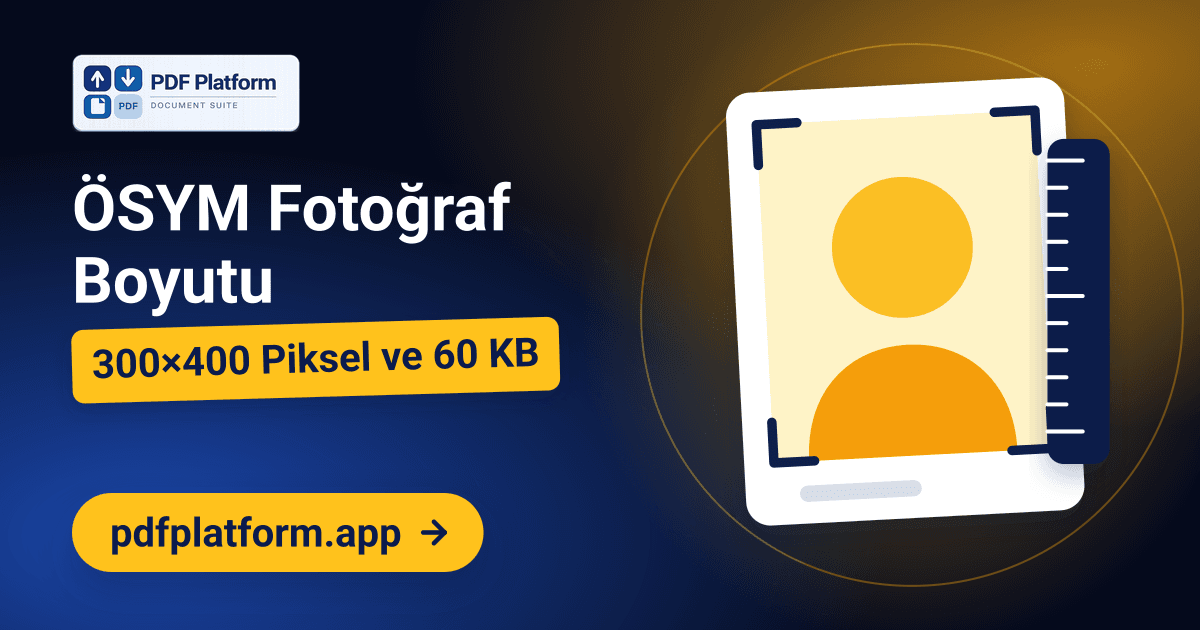
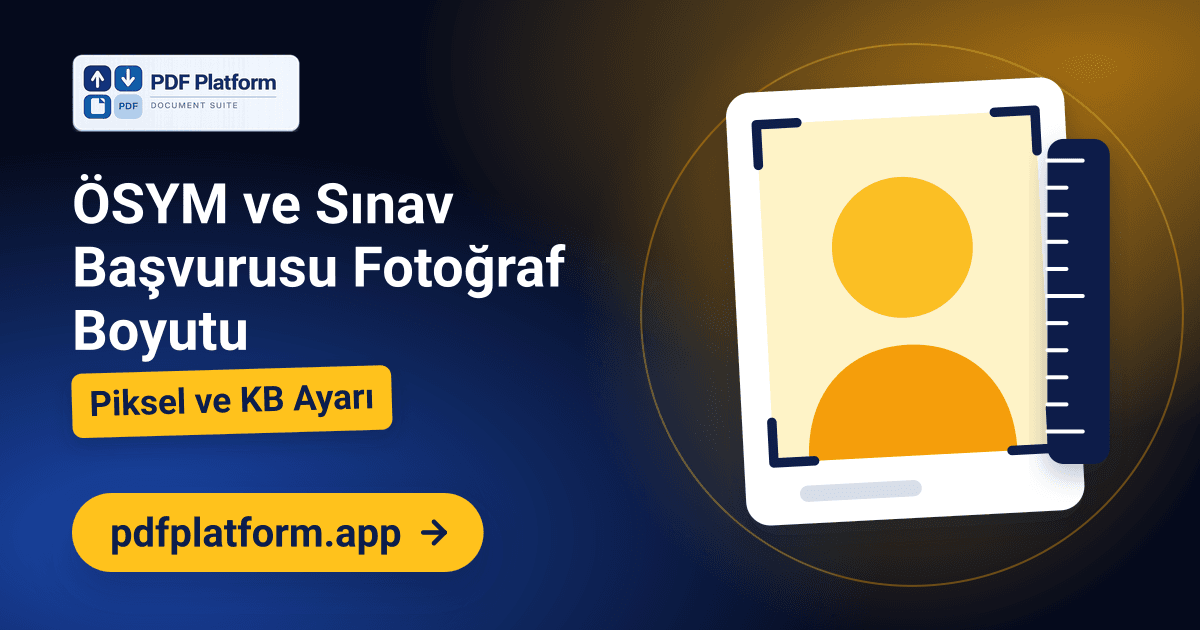
fix(seo): OSYM fotograf yazisinda dogrulanmamis kesin rakam iddiasi yumusatildi (kilavuz piksel/KB yayimlamiyor)

Changed region(s): [[0.0617, 0.2714, 0.4933, 0.6937]]

diff --git a/web/frontend/public/blog/osym-sinav-basvurusu-fotograf-boyutu/index.html b/web/frontend/public/blog/osym-sinav-basvurusu-fotograf-boyutu/index.html
@@ -27,7 +27,7 @@
     <meta name="apple-mobile-web-app-status-bar-style" content="black-translucent" />
     <meta name="apple-mobile-web-app-title" content="PDF Platform" />
     <meta name="msapplication-TileColor" content="#0f172a" />
-    <title>ÖSYM Fotoğraf Boyutu: 300×400 Piksel ve 60 KB</title>
+    <title>ÖSYM ve Sınav Başvurusu Fotoğraf Boyutu: Piksel ve KB Ayarı</title>
     <meta name="description" content="Sınav başvurusunda fotoğraf yüklenmiyor mu? İstenen piksel ölçüsünü ve dosya boyutunu tutturmanın adım adım yolu — kurulum gerekmeden." />
     <meta name="robots" content="index, follow, max-image-preview:large" />
     <meta name="googlebot" content="index, follow, max-image-preview:large" />
@@ -40,22 +40,22 @@
     <link rel="alternate" hreflang="x-default" href="https://www.pdfplatform.app/blog/osym-sinav-basvurusu-fotograf-boyutu" />
     <meta property="og:type" content="website" />
     <meta property="og:site_name" content="PDF Platform" />
-    <meta property="og:title" content="ÖSYM Fotoğraf Boyutu: 300×400 Piksel ve 60 KB" />
+    <meta property="og:title" content="ÖSYM ve Sınav Başvurusu Fotoğraf Boyutu: Piksel ve KB Ayarı" />
     <meta property="og:description" content="Sınav başvurusunda fotoğraf yüklenmiyor mu? İstenen piksel ölçüsünü ve dosya boyutunu tutturmanın adım adım yolu — kurulum gerekmeden." />
     <meta property="og:image" content="https://www.pdfplatform.app/covers/osym-sinav-basvurusu-fotograf-boyutu.png" />
     <meta property="og:image:width" content="1200" />
     <meta property="og:image:height" content="630" />
-    <meta property="og:image:alt" content="ÖSYM Fotoğraf Boyutu: 300×400 Piksel ve 60 KB" />
+    <meta property="og:image:alt" content="ÖSYM ve Sınav Başvurusu Fotoğraf Boyutu: Piksel ve KB Ayarı" />
     <meta property="og:url" content="https://www.pdfplatform.app/blog/osym-sinav-basvurusu-fotograf-boyutu" />
     <meta property="og:locale" content="tr_TR" />
     <meta property="og:locale:alternate" content="en_US" />
     <meta name="twitter:card" content="summary_large_image" />
     <meta name="twitter:site" content="@nbglobalstudio" />
     <meta name="twitter:creator" content="@nbglobalstudio" />
-    <meta name="twitter:title" content="ÖSYM Fotoğraf Boyutu: 300×400 Piksel ve 60 KB" />
+    <meta name="twitter:title" content="ÖSYM ve Sınav Başvurusu Fotoğraf Boyutu: Piksel ve KB Ayarı" />
     <meta name="twitter:description" content="Sınav başvurusunda fotoğraf yüklenmiyor mu? İstenen piksel ölçüsünü ve dosya boyutunu tutturmanın adım adım yolu — kurulum gerekmeden." />
     <meta name="twitter:image" content="https://www.pdfplatform.app/covers/osym-sinav-basvurusu-fotograf-boyutu.png" />
-    <meta name="twitter:image:alt" content="ÖSYM Fotoğraf Boyutu: 300×400 Piksel ve 60 KB" />
+    <meta name="twitter:image:alt" content="ÖSYM ve Sınav Başvurusu Fotoğraf Boyutu: Piksel ve KB Ayarı" />
     <!-- Yazı tipleri sitenin kendi sunucusundan gelir (üçüncü tarafa IP gitmez). Yalnızca ilk ekranda görünen Inter önceden yüklenir. -->
     <link rel="preload" as="font" type="font/woff2" href="/fonts/inter-latin-wght-normal.woff2" crossorigin />
     <link rel="stylesheet" href="/fonts/fonts.css" />
@@ -69,14 +69,14 @@
       .seo-prerender{position:absolute!important;width:1px;height:1px;padding:0;margin:-1px;overflow:hidden;clip:rect(0 0 0 0);clip-path:inset(50%);white-space:nowrap;border:0}
     </style>
     <script type="application/ld+json">{"@context":"https://schema.org","@type":"WebSite","@id":"https://www.pdfplatform.app/#website","name":"PDF Platform","url":"https://www.pdfplatform.app","inLanguage":"tr-TR","description":"PDF birleştirme, Word'e çevirme, küçültme, JPG'ye çevirme, düzenleme ve toplam 75 araç. Üyeliksiz ve ücretsiz; birleştirme tarayıcınızda çalışır, kurulum yok.","publisher":{"@id":"https://www.pdfplatform.app/#organization"}}</script>
-    <script type="application/ld+json">{"@context":"https://schema.org","@type":"Organization","@id":"https://www.pdfplatform.app/#organization","name":"PDF Platform","url":"https://www.pdfplatform.app","logo":{"@type":"ImageObject","url":"https://www.pdfplatform.app/logo.png","width":192,"height":192},"description":"Profesyonel PDF birleştirme, dönüştürme, sıkıştırma ve düzenleme platformu — iş süreçleri için tasarlandı.","contactPoint":{"@type":"ContactPoint","contactType":"customer support","availableLanguage":["Turkish","English"]},"sameAs":[]}</script>
-    <script type="application/ld+json">{"@context":"https://schema.org","@type":"BreadcrumbList","itemListElement":[{"@type":"ListItem","position":1,"name":"PDF Platform","item":"https://www.pdfplatform.app"},{"@type":"ListItem","position":2,"name":"Blog","item":"https://www.pdfplatform.app/blog"},{"@type":"ListItem","position":3,"name":"ÖSYM Fotoğraf Boyutu: 300×400 Piksel ve 60 KB","item":"https://www.pdfplatform.app/blog/osym-sinav-basvurusu-fotograf-boyutu"}]}</script>
-    <script type="application/ld+json">{"@context":"https://schema.org","@type":"BlogPosting","headline":"ÖSYM Fotoğraf Boyutu: 300×400 Piksel ve 60 KB","description":"Sınav başvurusunda fotoğraf yüklenmiyor mu? İstenen piksel ölçüsünü ve dosya boyutunu tutturmanın adım adım yolu — kurulum gerekmeden.","datePublished":"2026-09-22","dateModified":"2026-09-22","inLanguage":"tr","mainEntityOfPage":"https://www.pdfplatform.app/blog/osym-sinav-basvurusu-fotograf-boyutu","author":{"@type":"Organization","name":"PDF Platform","@id":"https://www.pdfplatform.app/#organization"},"publisher":{"@id":"https://www.pdfplatform.app/#organization"},"image":"https://www.pdfplatform.app/covers/osym-sinav-basvurusu-fotograf-boyutu.png"}</script>
-    <script type="application/ld+json">{"@context":"https://schema.org","@type":"HowTo","name":"ÖSYM Fotoğraf Boyutu: 300×400 Piksel ve 60 KB","description":"Sınav başvurusunda fotoğraf yüklenmiyor mu? İstenen piksel ölçüsünü ve dosya boyutunu tutturmanın adım adım yolu — kurulum gerekmeden.","inLanguage":"tr","step":[{"@type":"HowToStep","position":1,"name":"Fotoğrafı doğru ölçüye getirin","text":"Görsel Boyutlandır aracında hazır ölçülerden sınav başvurusu seçeneğini seçin; genişlik ve yükseklik 300 × 400 olarak gelir. İsterseniz elle de girebilirsiniz."},{"@type":"HowToStep","position":2,"name":"Dosya boyutunu kontrol edin","text":"İnen dosyanın boyutuna bakın. 60 KB'ın altındaysa işiniz bitti."},{"@type":"HowToStep","position":3,"name":"Gerekirse sıkıştırın","text":"Hâlâ büyükse Görsel Sıkıştır aracına verin ve kaliteyi kademeli düşürün. Vesikalık boyutundaki bir fotoğrafta %70 kalite genellikle hem 60 KB'ın altına iner hem de yüz net kalır."},{"@type":"HowToStep","position":4,"name":"Son kontrolü gözle yapın","text":"Fotoğrafı tam boyutta açıp yüzün net göründüğünden emin olun. Aşırı sıkıştırma yüz hatlarını bozar ve fotoğraf geri çevrilebilir."}]}</script>
-    <script type="application/ld+json">{"@context":"https://schema.org","@type":"FAQPage","mainEntity":[{"@type":"Question","name":"Sınav başvurusunda fotoğraf kaç piksel olmalı?","acceptedAnswer":{"@type":"Answer","text":"Yaygın olarak 300 × 400 piksel ve en fazla 60 KB, JPG biçiminde istenir. Şartlar değişebildiği için başvuru ekranındaki açıklamayı esas alın."}},{"@type":"Question","name":"Fotoğrafım doğru ölçüde ama dosya boyutu büyük, ne yapmalıyım?","acceptedAnswer":{"@type":"Answer","text":"Piksel ölçüsü ile dosya boyutu farklı şeylerdir. Ölçüyü koruyup fotoğrafı ayrıca sıkıştırın; vesikalık boyutta %70 kalite genellikle hem sınırın altına iner hem yüzü net bırakır."}},{"@type":"Question","name":"Telefon fotoğrafımı doğrudan kullanabilir miyim?","acceptedAnswer":{"@type":"Answer","text":"Önce kırpmanız gerekir. Kamera fotoğrafı 4:3 ya da 16:9 orandadır; vesikalık 3:4 orandadır. Yüz merkezde olacak şekilde kırpıp sonra boyutlandırın."}},{"@type":"Question","name":"Küçük bir fotoğrafı büyütebilir miyim?","acceptedAnswer":{"@type":"Answer","text":"Büyütebilirsiniz ama sonuç bulanık olur; kaybolan ayrıntı geri gelmez. Mümkünse fotoğrafın yüksek çözünürlüklü aslından başlayın."}},{"@type":"Question","name":"Bu araç fotoğrafı biyometrik hâle getirir mi?","acceptedAnswer":{"@type":"Answer","text":"Hayır. Araç yalnızca ölçüyü ayarlar. Beyaz arka plan, yüzün konumu ve nötr ifade gibi şartlar çekimle ilgilidir ve ayrıca sağlanmalıdır."}}]}</script>
+    <script type="application/ld+json">{"@context":"https://schema.org","@type":"Organization","@id":"https://www.pdfplatform.app/#organization","name":"PDF Platform","url":"https://www.pdfplatform.app","logo":{"@type":"ImageObject","url":"https://www.pdfplatform.app/logo.png","width":192,"height":192},"description":"Profesyonel PDF birleştirme, dönüştürme, sıkıştırma ve düzenleme platformu — iş süreçleri için tasarlandı.","contactPoint":{"@type":"ContactPoint","contactType":"customer support","availableLanguage":["Turkish","English"]},"sameAs":["https://www.instagram.com/pdfplatformapp","https://www.facebook.com/pdfplatform","https://x.com/pdfplatformapp","https://www.linkedin.com/company/pdfplatform","https://www.youtube.com/@pdfplatformapp","https://www.tiktok.com/@pdfplatformapp","https://tr.pinterest.com/pdfplatformapp"]}</script>
+    <script type="application/ld+json">{"@context":"https://schema.org","@type":"BreadcrumbList","itemListElement":[{"@type":"ListItem","position":1,"name":"PDF Platform","item":"https://www.pdfplatform.app"},{"@type":"ListItem","position":2,"name":"Blog","item":"https://www.pdfplatform.app/blog"},{"@type":"ListItem","position":3,"name":"ÖSYM ve Sınav Başvurusu Fotoğraf Boyutu: Piksel ve KB Ayarı","item":"https://www.pdfplatform.app/blog/osym-sinav-basvurusu-fotograf-boyutu"}]}</script>
+    <script type="application/ld+json">{"@context":"https://schema.org","@type":"BlogPosting","headline":"ÖSYM ve Sınav Başvurusu Fotoğraf Boyutu: Piksel ve KB Ayarı","description":"Sınav başvurusunda fotoğraf yüklenmiyor mu? İstenen piksel ölçüsünü ve dosya boyutunu tutturmanın adım adım yolu — kurulum gerekmeden.","datePublished":"2026-09-22","dateModified":"2026-09-22","inLanguage":"tr","mainEntityOfPage":"https://www.pdfplatform.app/blog/osym-sinav-basvurusu-fotograf-boyutu","author":{"@type":"Organization","name":"PDF Platform","@id":"https://www.pdfplatform.app/#organization"},"publisher":{"@id":"https://www.pdfplatform.app/#organization"},"image":"https://www.pdfplatform.app/covers/osym-sinav-basvurusu-fotograf-boyutu.png"}</script>
+    <script type="application/ld+json">{"@context":"https://schema.org","@type":"HowTo","name":"ÖSYM ve Sınav Başvurusu Fotoğraf Boyutu: Piksel ve KB Ayarı","description":"Sınav başvurusunda fotoğraf yüklenmiyor mu? İstenen piksel ölçüsünü ve dosya boyutunu tutturmanın adım adım yolu — kurulum gerekmeden.","inLanguage":"tr","step":[{"@type":"HowToStep","position":1,"name":"Fotoğrafı doğru ölçüye getirin","text":"Görsel Boyutlandır aracında hazır ölçülerden sınav başvurusu seçeneğini seçin; genişlik ve yükseklik 300 × 400 olarak gelir. İsterseniz elle de girebilirsiniz."},{"@type":"HowToStep","position":2,"name":"Dosya boyutunu kontrol edin","text":"İnen dosyanın boyutuna bakın. 60 KB'ın altındaysa işiniz bitti."},{"@type":"HowToStep","position":3,"name":"Gerekirse sıkıştırın","text":"Hâlâ büyükse Görsel Sıkıştır aracına verin ve kaliteyi kademeli düşürün. Vesikalık boyutundaki bir fotoğrafta %70 kalite genellikle hem 60 KB'ın altına iner hem de yüz net kalır."},{"@type":"HowToStep","position":4,"name":"Son kontrolü gözle yapın","text":"Fotoğrafı tam boyutta açıp yüzün net göründüğünden emin olun. Aşırı sıkıştırma yüz hatlarını bozar ve fotoğraf geri çevrilebilir."}]}</script>
+    <script type="application/ld+json">{"@context":"https://schema.org","@type":"FAQPage","mainEntity":[{"@type":"Question","name":"Sınav başvurusunda fotoğraf kaç piksel olmalı?","acceptedAnswer":{"@type":"Answer","text":"Sınav başvurularında yaygın olarak 300 × 400 piksel ve en fazla 60 KB, JPG biçiminde istenir; ancak bu bir örnektir ve ÖSYM kılavuzu bu değerleri yayımlamaz. Şartlar değiştiği için başvuru ekranındaki açıklamayı esas alın."}},{"@type":"Question","name":"Fotoğrafım doğru ölçüde ama dosya boyutu büyük, ne yapmalıyım?","acceptedAnswer":{"@type":"Answer","text":"Piksel ölçüsü ile dosya boyutu farklı şeylerdir. Ölçüyü koruyup fotoğrafı ayrıca sıkıştırın; vesikalık boyutta %70 kalite genellikle hem sınırın altına iner hem yüzü net bırakır."}},{"@type":"Question","name":"Telefon fotoğrafımı doğrudan kullanabilir miyim?","acceptedAnswer":{"@type":"Answer","text":"Önce kırpmanız gerekir. Kamera fotoğrafı 4:3 ya da 16:9 orandadır; vesikalık 3:4 orandadır. Yüz merkezde olacak şekilde kırpıp sonra boyutlandırın."}},{"@type":"Question","name":"Küçük bir fotoğrafı büyütebilir miyim?","acceptedAnswer":{"@type":"Answer","text":"Büyütebilirsiniz ama sonuç bulanık olur; kaybolan ayrıntı geri gelmez. Mümkünse fotoğrafın yüksek çözünürlüklü aslından başlayın."}},{"@type":"Question","name":"Bu araç fotoğrafı biyometrik hâle getirir mi?","acceptedAnswer":{"@type":"Answer","text":"Hayır. Araç yalnızca ölçüyü ayarlar. Beyaz arka plan, yüzün konumu ve nötr ifade gibi şartlar çekimle ilgilidir ve ayrıca sağlanmalıdır."}}]}</script>
   </head>
   <body>
-    <div id="root"><main class="seo-prerender"><h1>ÖSYM Fotoğraf Boyutu: 300×400 Piksel ve 60 KB</h1><p class="seo-intro">Başvuru ekranı fotoğrafı kabul etmiyor ve sebebini söylemiyor. Sorun neredeyse her zaman aynı iki şeyden biri: piksel ölçüsü ya da dosya boyutu tutmuyor.</p><figure class="seo-cover"><img src="/covers/osym-sinav-basvurusu-fotograf-boyutu.png" width="1200" height="630" loading="lazy" decoding="async" alt="ÖSYM Fotoğraf Boyutu: 300×400 Piksel ve 60 KB" /></figure><article class="seo-article"><p class="seo-lead">Sınav başvurusunun son günü, formu doldurdunuz ve sıra fotoğrafa geldi. Sistem fotoğrafı kabul etmiyor. Hata mesajı da genelde açıklayıcı değil. Sorun neredeyse her zaman iki şeyden birindedir: fotoğrafın piksel ölçüsü ya da dosya boyutu isteneni tutmuyordur.</p><h2>İstenen ölçüler</h2><p>Sınav başvurularında fotoğraf için yaygın olarak şu şartlar aranır:</p><ul><li>Piksel ölçüsü: 300 × 400 (genişlik × yükseklik).</li><li>Dosya boyutu: en fazla 60 KB.</li><li>Biçim: JPG (JPEG).</li><li>İçerik: son altı ay içinde çekilmiş, beyaz arka planlı, yüzü net gösteren bir fotoğraf.</li></ul><p>Bu şartlar kurumdan kuruma ve yıldan yıla değişebilir. Başvuru ekranındaki açıklama her zaman esastır; aşağıdaki yöntem hangi ölçü istenirse istensin aynı şekilde çalışır.</p><h2>Piksel ölçüsü ile dosya boyutu farklı şeylerdir</h2><p>Bu ayrım kafa karışıklığının asıl kaynağıdır. Piksel ölçüsü fotoğrafın eni ve boyudur — 300 × 400 gibi. Dosya boyutu ise fotoğrafın diskte kapladığı yerdir — 60 KB gibi.</p><p>Bir fotoğraf tam olarak 300 × 400 piksel olabilir ama yine de 400 KB tutabilir. Tersi de mümkündür. Bu yüzden iki şartı ayrı ayrı sağlamanız gerekir: önce ölçüyü ayarlayın, boyut hâlâ yüksekse ayrıca sıkıştırın.</p><h2>Adım adım çözüm</h2><ol><li><strong>Fotoğrafı doğru ölçüye getirin:</strong> Görsel Boyutlandır aracında hazır ölçülerden sınav başvurusu seçeneğini seçin; genişlik ve yükseklik 300 × 400 olarak gelir. İsterseniz elle de girebilirsiniz.</li><li><strong>Dosya boyutunu kontrol edin:</strong> İnen dosyanın boyutuna bakın. 60 KB&#39;ın altındaysa işiniz bitti.</li><li><strong>Gerekirse sıkıştırın:</strong> Hâlâ büyükse Görsel Sıkıştır aracına verin ve kaliteyi kademeli düşürün. Vesikalık boyutundaki bir fotoğrafta %70 kalite genellikle hem 60 KB&#39;ın altına iner hem de yüz net kalır.</li><li><strong>Son kontrolü gözle yapın:</strong> Fotoğrafı tam boyutta açıp yüzün net göründüğünden emin olun. Aşırı sıkıştırma yüz hatlarını bozar ve fotoğraf geri çevrilebilir.</li></ol><p><a href="/tools/gorsel-boyutlandir"><strong>Görsel Boyutlandır</strong> — Fotoğrafı sınav ve resmî başvuruların istediği piksel ölçüsüne getirin — hazır ölçülerle, cihazınızda.</a></p><h2>Sık yapılan hatalar</h2><ul><li>Telefonla çekilmiş normal bir fotoğrafı kırpmadan yüklemeye çalışmak. Kamera fotoğrafı 4:3 ya da 16:9 orandadır; vesikalık oranı 3:4&#39;tür. Önce vesikalık oranında kırpmanız gerekir.</li><li>Ekran görüntüsü kullanmak. Ekran görüntüsü PNG olur ve genelde hem yanlış ölçüde hem gereğinden büyüktür.</li><li>Küçük bir fotoğrafı büyütmek. 150 × 200 bir fotoğrafı 300 × 400&#39;e çıkarmak bulanık bir sonuç verir; kaybolan ayrıntı geri gelmez.</li><li>Arka planı beyaz sanmak. Duvar açık gri ya da kremse sistem ya da görevli bunu reddedebilir.</li></ul><p>Kırpmayı boyutlandırmadan ÖNCE yapın. Önce fotoğrafı 3:4 oranında, yüz merkezde olacak şekilde kırpın; sonra 300 × 400&#39;e getirin. Ters sırada yaparsanız yüz orantısız biçimde ezilir.</p><h2>Diğer başvurular için yaygın ölçüler</h2><p>Aynı yöntem tüm resmî fotoğraf ölçüleri için geçerlidir. Türkiye&#39;de kimlik, pasaport ve ehliyet başvurularında yaygın ölçü 50 × 60 mm; Schengen ve pek çok vize başvurusunda 35 × 45 mm istenir. Milimetre cinsinden verilen ölçüler 300 DPI kabul edilerek piksele çevrilir.</p><p>Şunu tekrar etmekte fayda var: bir aracın fotoğrafı doğru ölçüye getirmesi, fotoğrafın biyometrik şartları karşıladığı anlamına gelmez. Arka plan, yüzün konumu ve ifade gibi şartlar fotoğrafın çekimiyle ilgilidir.</p></article><nav aria-label="İlgili PDF araçları" class="seo-related-tools"><h2>Bu İşi Yapan PDF Araçları</h2><ul><li><a href="/tools/gorsel-boyutlandir">Görsel Boyutlandırma</a></li><li><a href="/tools/gorsel-sikistir">Görsel Sıkıştırma</a></li></ul></nav><nav aria-label="İlgili rehberler" class="seo-related-guides"><h2>İlgili Rehberler</h2><ul><li><a href="/blog/gorsel-boyutlandirma-sosyal-medya">Görsel Boyutlandırma: Sosyal Medya Piksel Ölçüleri 2026</a></li><li><a href="/blog/biyometrik-fotograf-olculeri-ve-kurallari">Biyometrik Fotoğraf Ölçüleri ve Kuralları (2026)</a></li><li><a href="/blog/vize-basvurusu-evrak-hazirlama">Vize Başvurusu İçin Evrak Dosyası Hazırlama</a></li></ul></nav><section aria-label="Sık sorulan sorular" class="seo-faq"><h2>Sık Sorulan Sorular</h2><div class="seo-faq-item"><h3>Sınav başvurusunda fotoğraf kaç piksel olmalı?</h3><p>Yaygın olarak 300 × 400 piksel ve en fazla 60 KB, JPG biçiminde istenir. Şartlar değişebildiği için başvuru ekranındaki açıklamayı esas alın.</p></div><div class="seo-faq-item"><h3>Fotoğrafım doğru ölçüde ama dosya boyutu büyük, ne yapmalıyım?</h3><p>Piksel ölçüsü ile dosya boyutu farklı şeylerdir. Ölçüyü koruyup fotoğrafı ayrıca sıkıştırın; vesikalık boyutta %70 kalite genellikle hem sınırın altına iner hem yüzü net bırakır.</p></div><div class="seo-faq-item"><h3>Telefon fotoğrafımı doğrudan kullanabilir miyim?</h3><p>Önce kırpmanız gerekir. Kamera fotoğrafı 4:3 ya da 16:9 orandadır; vesikalık 3:4 orandadır. Yüz merkezde olacak şekilde kırpıp sonra boyutlandırın.</p></div><div class="seo-faq-item"><h3>Küçük bir fotoğrafı büyütebilir miyim?</h3><p>Büyütebilirsiniz ama sonuç bulanık olur; kaybolan ayrıntı geri gelmez. Mümkünse fotoğrafın yüksek çözünürlüklü aslından başlayın.</p></div><div class="seo-faq-item"><h3>Bu araç fotoğrafı biyometrik hâle getirir mi?</h3><p>Hayır. Araç yalnızca ölçüyü ayarlar. Beyaz arka plan, yüzün konumu ve nötr ifade gibi şartlar çekimle ilgilidir ve ayrıca sağlanmalıdır.</p></div></section><nav aria-label="Site bölümleri" class="seo-sitenav"><h2>Site Haritası</h2><ul><li><a href="/">Ana Sayfa — Tüm PDF Araçları</a></li><li><a href="/blog">Blog — PDF Rehberleri</a></li><li><a href="/pricing">Fiyatlandırma ve Planlar</a></li><li><a href="/pdf-api">PDF ve Yapay Zekâ API</a></li><li><a href="/pdf-api/docs">API Dokümantasyonu</a></li><li><a href="/about">Hakkımızda</a></li><li><a href="/terms">Hizmet Şartları</a></li><li><a href="/privacy">Gizlilik Politikası</a></li><li><a href="/kvkk">KVKK Aydınlatma Metni</a></li></ul></nav></main></div>
+    <div id="root"><main class="seo-prerender"><h1>ÖSYM ve Sınav Başvurusu Fotoğraf Boyutu: Piksel ve KB Ayarı</h1><p class="seo-intro">Başvuru ekranı fotoğrafı kabul etmiyor ve sebebini söylemiyor. Sorun neredeyse her zaman aynı iki şeyden biri: piksel ölçüsü ya da dosya boyutu tutmuyor.</p><figure class="seo-cover"><img src="/covers/osym-sinav-basvurusu-fotograf-boyutu.png" width="1200" height="630" loading="lazy" decoding="async" alt="ÖSYM ve Sınav Başvurusu Fotoğraf Boyutu: Piksel ve KB Ayarı" /></figure><article class="seo-article"><p class="seo-lead">Sınav başvurusunun son günü, formu doldurdunuz ve sıra fotoğrafa geldi. Sistem fotoğrafı kabul etmiyor. Hata mesajı da genelde açıklayıcı değil. Sorun neredeyse her zaman iki şeyden birindedir: fotoğrafın piksel ölçüsü ya da dosya boyutu isteneni tutmuyordur.</p><h2>İstenen ölçüler</h2><p>ÖSYM&#39;nin kılavuzu piksel ya da KB değeri yayımlamıyor; başvuru ekranı ne istiyorsa o esastır. Sınav başvurularında yaygın görülen şartlar şöyledir, bunları örnek olarak alın ve kendi ekranınızdakiyle karşılaştırın:</p><ul><li>Piksel ölçüsü: 300 × 400 (genişlik × yükseklik).</li><li>Dosya boyutu: en fazla 60 KB.</li><li>Biçim: JPG (JPEG).</li><li>İçerik: son altı ay içinde çekilmiş, beyaz arka planlı, yüzü net gösteren bir fotoğraf.</li></ul><p>Bu şartlar kurumdan kuruma ve yıldan yıla değişebilir. Başvuru ekranındaki açıklama her zaman esastır; aşağıdaki yöntem hangi ölçü istenirse istensin aynı şekilde çalışır.</p><h2>Piksel ölçüsü ile dosya boyutu farklı şeylerdir</h2><p>Bu ayrım kafa karışıklığının asıl kaynağıdır. Piksel ölçüsü fotoğrafın eni ve boyudur — 300 × 400 gibi. Dosya boyutu ise fotoğrafın diskte kapladığı yerdir — 60 KB gibi.</p><p>Bir fotoğraf tam olarak 300 × 400 piksel olabilir ama yine de 400 KB tutabilir. Tersi de mümkündür. Bu yüzden iki şartı ayrı ayrı sağlamanız gerekir: önce ölçüyü ayarlayın, boyut hâlâ yüksekse ayrıca sıkıştırın.</p><h2>Adım adım çözüm</h2><ol><li><strong>Fotoğrafı doğru ölçüye getirin:</strong> Görsel Boyutlandır aracında hazır ölçülerden sınav başvurusu seçeneğini seçin; genişlik ve yükseklik 300 × 400 olarak gelir. İsterseniz elle de girebilirsiniz.</li><li><strong>Dosya boyutunu kontrol edin:</strong> İnen dosyanın boyutuna bakın. 60 KB&#39;ın altındaysa işiniz bitti.</li><li><strong>Gerekirse sıkıştırın:</strong> Hâlâ büyükse Görsel Sıkıştır aracına verin ve kaliteyi kademeli düşürün. Vesikalık boyutundaki bir fotoğrafta %70 kalite genellikle hem 60 KB&#39;ın altına iner hem de yüz net kalır.</li><li><strong>Son kontrolü gözle yapın:</strong> Fotoğrafı tam boyutta açıp yüzün net göründüğünden emin olun. Aşırı sıkıştırma yüz hatlarını bozar ve fotoğraf geri çevrilebilir.</li></ol><p><a href="/tools/gorsel-boyutlandir"><strong>Görsel Boyutlandır</strong> — Fotoğrafı sınav ve resmî başvuruların istediği piksel ölçüsüne getirin — hazır ölçülerle, cihazınızda.</a></p><h2>Sık yapılan hatalar</h2><ul><li>Telefonla çekilmiş normal bir fotoğrafı kırpmadan yüklemeye çalışmak. Kamera fotoğrafı 4:3 ya da 16:9 orandadır; vesikalık oranı 3:4&#39;tür. Önce vesikalık oranında kırpmanız gerekir.</li><li>Ekran görüntüsü kullanmak. Ekran görüntüsü PNG olur ve genelde hem yanlış ölçüde hem gereğinden büyüktür.</li><li>Küçük bir fotoğrafı büyütmek. 150 × 200 bir fotoğrafı 300 × 400&#39;e çıkarmak bulanık bir sonuç verir; kaybolan ayrıntı geri gelmez.</li><li>Arka planı beyaz sanmak. Duvar açık gri ya da kremse sistem ya da görevli bunu reddedebilir.</li></ul><p>Kırpmayı boyutlandırmadan ÖNCE yapın. Önce fotoğrafı 3:4 oranında, yüz merkezde olacak şekilde kırpın; sonra 300 × 400&#39;e getirin. Ters sırada yaparsanız yüz orantısız biçimde ezilir.</p><h2>Diğer başvurular için yaygın ölçüler</h2><p>Aynı yöntem tüm resmî fotoğraf ölçüleri için geçerlidir. Türkiye&#39;de kimlik, pasaport ve ehliyet başvurularında yaygın ölçü 50 × 60 mm; Schengen ve pek çok vize başvurusunda 35 × 45 mm istenir. Milimetre cinsinden verilen ölçüler 300 DPI kabul edilerek piksele çevrilir.</p><p>Şunu tekrar etmekte fayda var: bir aracın fotoğrafı doğru ölçüye getirmesi, fotoğrafın biyometrik şartları karşıladığı anlamına gelmez. Arka plan, yüzün konumu ve ifade gibi şartlar fotoğrafın çekimiyle ilgilidir.</p></article><nav aria-label="İlgili PDF araçları" class="seo-related-tools"><h2>Bu İşi Yapan PDF Araçları</h2><ul><li><a href="/tools/gorsel-boyutlandir">Görsel Boyutlandırma</a></li><li><a href="/tools/gorsel-sikistir">Görsel Sıkıştırma</a></li></ul></nav><nav aria-label="İlgili rehberler" class="seo-related-guides"><h2>İlgili Rehberler</h2><ul><li><a href="/blog/gorsel-boyutlandirma-sosyal-medya">Görsel Boyutlandırma: Sosyal Medya Piksel Ölçüleri 2026</a></li><li><a href="/blog/biyometrik-fotograf-olculeri-ve-kurallari">Biyometrik Fotoğraf Ölçüleri: 50×60 mm, 35×45 mm (2026)</a></li><li><a href="/blog/vize-basvurusu-evrak-hazirlama">Vize Başvurusu İçin Evrak Dosyası Hazırlama</a></li></ul></nav><section aria-label="Sık sorulan sorular" class="seo-faq"><h2>Sık Sorulan Sorular</h2><div class="seo-faq-item"><h3>Sınav başvurusunda fotoğraf kaç piksel olmalı?</h3><p>Sınav başvurularında yaygın olarak 300 × 400 piksel ve en fazla 60 KB, JPG biçiminde istenir; ancak bu bir örnektir ve ÖSYM kılavuzu bu değerleri yayımlamaz. Şartlar değiştiği için başvuru ekranındaki açıklamayı esas alın.</p></div><div class="seo-faq-item"><h3>Fotoğrafım doğru ölçüde ama dosya boyutu büyük, ne yapmalıyım?</h3><p>Piksel ölçüsü ile dosya boyutu farklı şeylerdir. Ölçüyü koruyup fotoğrafı ayrıca sıkıştırın; vesikalık boyutta %70 kalite genellikle hem sınırın altına iner hem yüzü net bırakır.</p></div><div class="seo-faq-item"><h3>Telefon fotoğrafımı doğrudan kullanabilir miyim?</h3><p>Önce kırpmanız gerekir. Kamera fotoğrafı 4:3 ya da 16:9 orandadır; vesikalık 3:4 orandadır. Yüz merkezde olacak şekilde kırpıp sonra boyutlandırın.</p></div><div class="seo-faq-item"><h3>Küçük bir fotoğrafı büyütebilir miyim?</h3><p>Büyütebilirsiniz ama sonuç bulanık olur; kaybolan ayrıntı geri gelmez. Mümkünse fotoğrafın yüksek çözünürlüklü aslından başlayın.</p></div><div class="seo-faq-item"><h3>Bu araç fotoğrafı biyometrik hâle getirir mi?</h3><p>Hayır. Araç yalnızca ölçüyü ayarlar. Beyaz arka plan, yüzün konumu ve nötr ifade gibi şartlar çekimle ilgilidir ve ayrıca sağlanmalıdır.</p></div></section><nav aria-label="Site bölümleri" class="seo-sitenav"><h2>Site Haritası</h2><ul><li><a href="/">Ana Sayfa — Tüm PDF Araçları</a></li><li><a href="/blog">Blog — PDF Rehberleri</a></li><li><a href="/pricing">Fiyatlandırma ve Planlar</a></li><li><a href="/pdf-api">PDF ve Yapay Zekâ API</a></li><li><a href="/pdf-api/docs">API Dokümantasyonu</a></li><li><a href="/about">Hakkımızda</a></li><li><a href="/terms">Hizmet Şartları</a></li><li><a href="/privacy">Gizlilik Politikası</a></li><li><a href="/kvkk">KVKK Aydınlatma Metni</a></li></ul></nav></main></div>
     <script type="module" src="/src/main.tsx"></script>
   </body>
 </html>

diff --git a/web/frontend/public/en/blog/exam-application-photo-size/index.html b/web/frontend/public/en/blog/exam-application-photo-size/index.html
@@ -69,14 +69,14 @@
       .seo-prerender{position:absolute!important;width:1px;height:1px;padding:0;margin:-1px;overflow:hidden;clip:rect(0 0 0 0);clip-path:inset(50%);white-space:nowrap;border:0}
     </style>
     <script type="application/ld+json">{"@context":"https://schema.org","@type":"WebSite","@id":"https://www.pdfplatform.app/#website","name":"PDF Platform","url":"https://www.pdfplatform.app","inLanguage":"en-US","description":"PDF to Word, merge, compress, PDF to JPG, edit and 75 tools in total. Free, no sign-up; merge runs in your browser and your files never leave your device.","publisher":{"@id":"https://www.pdfplatform.app/#organization"}}</script>
-    <script type="application/ld+json">{"@context":"https://schema.org","@type":"Organization","@id":"https://www.pdfplatform.app/#organization","name":"PDF Platform","url":"https://www.pdfplatform.app","logo":{"@type":"ImageObject","url":"https://www.pdfplatform.app/logo.png","width":192,"height":192},"description":"Professional PDF merge, convert, compress, and edit platform — built for business document workflows.","contactPoint":{"@type":"ContactPoint","contactType":"customer support","availableLanguage":["Turkish","English"]},"sameAs":[]}</script>
+    <script type="application/ld+json">{"@context":"https://schema.org","@type":"Organization","@id":"https://www.pdfplatform.app/#organization","name":"PDF Platform","url":"https://www.pdfplatform.app","logo":{"@type":"ImageObject","url":"https://www.pdfplatform.app/logo.png","width":192,"height":192},"description":"Professional PDF merge, convert, compress, and edit platform — built for business document workflows.","contactPoint":{"@type":"ContactPoint","contactType":"customer support","availableLanguage":["Turkish","English"]},"sameAs":["https://www.instagram.com/pdfplatformapp","https://www.facebook.com/pdfplatform","https://x.com/pdfplatformapp","https://www.linkedin.com/company/pdfplatform","https://www.youtube.com/@pdfplatformapp","https://www.tiktok.com/@pdfplatformapp","https://tr.pinterest.com/pdfplatformapp"]}</script>
     <script type="application/ld+json">{"@context":"https://schema.org","@type":"BreadcrumbList","itemListElement":[{"@type":"ListItem","position":1,"name":"PDF Platform","item":"https://www.pdfplatform.app/en"},{"@type":"ListItem","position":2,"name":"Blog","item":"https://www.pdfplatform.app/en/blog"},{"@type":"ListItem","position":3,"name":"Exam Photo Rejected? Fix Pixel Size and File Size","item":"https://www.pdfplatform.app/en/blog/exam-application-photo-size"}]}</script>
     <script type="application/ld+json">{"@context":"https://schema.org","@type":"BlogPosting","headline":"Exam Photo Rejected? Fix Pixel Size and File Size","description":"A photo of the right size can still be rejected for weighing too much. Pixel size versus file size, plus a four-step fix for 300 x 400 px under 60 KB.","datePublished":"2026-09-22","dateModified":"2026-09-22","inLanguage":"en","mainEntityOfPage":"https://www.pdfplatform.app/en/blog/exam-application-photo-size","author":{"@type":"Organization","name":"PDF Platform","@id":"https://www.pdfplatform.app/#organization"},"publisher":{"@id":"https://www.pdfplatform.app/#organization"},"image":"https://www.pdfplatform.app/en/covers/exam-application-photo-size.png"}</script>
     <script type="application/ld+json">{"@context":"https://schema.org","@type":"HowTo","name":"Exam Photo Rejected? Fix Pixel Size and File Size","description":"A photo of the right size can still be rejected for weighing too much. Pixel size versus file size, plus a four-step fix for 300 x 400 px under 60 KB.","inLanguage":"en","step":[{"@type":"HowToStep","position":1,"name":"Set the right dimensions","text":"In the resize tool, pick the exam application entry from the ready-made sizes, which gives 300 x 400. You can also type the numbers in."},{"@type":"HowToStep","position":2,"name":"Check the file size","text":"Look at the size of the downloaded file. Under 60 KB and you are done."},{"@type":"HowToStep","position":3,"name":"Compress if needed","text":"If it is still large, put it through the image compressor and lower the quality gradually. At passport-photo dimensions, 70% quality usually drops under 60 KB while keeping the face sharp."},{"@type":"HowToStep","position":4,"name":"Check by eye","text":"Open the photo at full size and make sure the face is sharp. Over-compression distorts facial features and the photo may be rejected."}]}</script>
-    <script type="application/ld+json">{"@context":"https://schema.org","@type":"FAQPage","mainEntity":[{"@type":"Question","name":"What pixel size should an exam application photo be?","acceptedAnswer":{"@type":"Answer","text":"Commonly 300 x 400 pixels, at most 60 KB, in JPG format. Requirements change, so rely on the note shown on the application screen."}},{"@type":"Question","name":"My photo is the right size but the file is too big. What now?","acceptedAnswer":{"@type":"Answer","text":"Pixel dimensions and file size are different things. Keep the dimensions and compress the photo separately; at passport-photo size, 70% quality usually gets under the limit while keeping the face sharp."}},{"@type":"Question","name":"Can I use my phone photo directly?","acceptedAnswer":{"@type":"Answer","text":"You need to crop it first. Camera photos are 4:3 or 16:9 while a passport photo is 3:4. Crop with the face centred, then resize."}},{"@type":"Question","name":"Can I enlarge a small photo?","acceptedAnswer":{"@type":"Answer","text":"You can, but the result will be blurry, because lost detail does not return. Start from the highest-resolution original you have."}},{"@type":"Question","name":"Does this tool make a photo biometric?","acceptedAnswer":{"@type":"Answer","text":"No. It only sets the size. A white background, the position of the face and a neutral expression depend on the photo itself and must be handled separately."}}]}</script>
+    <script type="application/ld+json">{"@context":"https://schema.org","@type":"FAQPage","mainEntity":[{"@type":"Question","name":"What pixel size should an exam application photo be?","acceptedAnswer":{"@type":"Answer","text":"Commonly 300 x 400 pixels, at most 60 KB, in JPG format, but this is an example, not an official figure. Requirements change, so rely on the note shown on the application screen."}},{"@type":"Question","name":"My photo is the right size but the file is too big. What now?","acceptedAnswer":{"@type":"Answer","text":"Pixel dimensions and file size are different things. Keep the dimensions and compress the photo separately; at passport-photo size, 70% quality usually gets under the limit while keeping the face sharp."}},{"@type":"Question","name":"Can I use my phone photo directly?","acceptedAnswer":{"@type":"Answer","text":"You need to crop it first. Camera photos are 4:3 or 16:9 while a passport photo is 3:4. Crop with the face centred, then resize."}},{"@type":"Question","name":"Can I enlarge a small photo?","acceptedAnswer":{"@type":"Answer","text":"You can, but the result will be blurry, because lost detail does not return. Start from the highest-resolution original you have."}},{"@type":"Question","name":"Does this tool make a photo biometric?","acceptedAnswer":{"@type":"Answer","text":"No. It only sets the size. A white background, the position of the face and a neutral expression depend on the photo itself and must be handled separately."}}]}</script>
   </head>
   <body>
-    <div id="root"><main class="seo-prerender"><h1>Exam Photo Rejected? Fix Pixel Size and File Size</h1><p class="seo-intro">Application systems rarely tell you why a photo failed. It is nearly always the pixel dimensions, the file size, or both, and they are fixed separately.</p><figure class="seo-cover"><img src="/en/covers/exam-application-photo-size.png" width="1200" height="630" loading="lazy" decoding="async" alt="Exam Photo Rejected? Fix Pixel Size and File Size" /></figure><article class="seo-article"><p class="seo-lead">It is the last day of applications, the form is filled in and you have reached the photo. The system will not accept it, and the error is rarely informative. In almost every case the pixel dimensions or the file size do not match what was asked for.</p><h2>A typical requirement</h2><p>Turkish exam applications commonly ask for:</p><ul><li>Pixel dimensions: 300 x 400 (width by height).</li><li>File size: 60 KB at most.</li><li>Format: JPG (JPEG).</li><li>Content: taken within the last six months, white background, face clearly visible.</li></ul><p>These requirements differ between institutions and change from year to year. The note on the application screen always governs, and the method below works whatever size is asked for.</p><h2>Pixels and kilobytes are different things</h2><p>This distinction is the real source of the confusion. Pixel dimensions are the photo&#39;s width and height, such as 300 x 400. File size is how much room it takes on disk, such as 60 KB.</p><p>A photo can be exactly 300 x 400 pixels and still weigh 400 KB, and the reverse is possible too. Satisfy the two conditions separately: set the dimensions first, then compress if the size is still high.</p><h2>Four steps</h2><ol><li><strong>Set the right dimensions:</strong> In the resize tool, pick the exam application entry from the ready-made sizes, which gives 300 x 400. You can also type the numbers in.</li><li><strong>Check the file size:</strong> Look at the size of the downloaded file. Under 60 KB and you are done.</li><li><strong>Compress if needed:</strong> If it is still large, put it through the image compressor and lower the quality gradually. At passport-photo dimensions, 70% quality usually drops under 60 KB while keeping the face sharp.</li><li><strong>Check by eye:</strong> Open the photo at full size and make sure the face is sharp. Over-compression distorts facial features and the photo may be rejected.</li></ol><p><a href="/en/tools/resize-image"><strong>Resize Image</strong> — Bring a photo to the pixel dimensions exam and official applications require, with ready-made sizes and on your device.</a></p><p>Crop before you resize. First crop to a 3:4 ratio with the face centred, then set 300 x 400. Do it the other way round and the face gets squashed out of proportion.</p><h2>Common mistakes</h2><ul><li>Uploading an ordinary phone photo without cropping. Camera photos are 4:3 or 16:9, while a passport photo is 3:4, so crop to that ratio first.</li><li>Using a screenshot. Screenshots come out as PNG and are usually both the wrong size and heavier than needed.</li><li>Enlarging a small photo. Taking a 150 x 200 image up to 300 x 400 gives a blurry result, because lost detail does not come back.</li><li>Assuming the background is white. If the wall is light grey or cream, the system or a reviewer may reject it.</li></ul><h2>Other official photo sizes</h2><p>The same method applies to every official photo size. In Turkey, ID card, passport and driving licence applications commonly use 50 x 60 mm, while Schengen and many other visa applications ask for 35 x 45 mm. Sizes given in millimetres convert to pixels at 300 DPI.</p><p>Worth repeating: a tool that brings a photo to the right size does not make it biometrically compliant. Background, the position of the face and the expression all depend on how the photo was taken.</p></article><nav aria-label="Related PDF tools" class="seo-related-tools"><h2>PDF Tools for This Task</h2><ul><li><a href="/en/tools/resize-image">Resize Image</a></li><li><a href="/en/tools/compress-image">Reduce Image Size in KB</a></li></ul></nav><nav aria-label="Related guides" class="seo-related-guides"><h2>Related Guides</h2><ul><li><a href="/en/blog/resize-images-for-social-media">Social Media Image Sizes for 2026, Hit Them Exactly</a></li><li><a href="/en/blog/biometric-photo-sizes-and-rules">Biometric Photo Sizes and Rules by Country (2026)</a></li><li><a href="/en/blog/prepare-visa-application-documents">Visa Application Documents: A File an Officer Can Read</a></li></ul></nav><section aria-label="Frequently asked questions" class="seo-faq"><h2>Frequently Asked Questions</h2><div class="seo-faq-item"><h3>What pixel size should an exam application photo be?</h3><p>Commonly 300 x 400 pixels, at most 60 KB, in JPG format. Requirements change, so rely on the note shown on the application screen.</p></div><div class="seo-faq-item"><h3>My photo is the right size but the file is too big. What now?</h3><p>Pixel dimensions and file size are different things. Keep the dimensions and compress the photo separately; at passport-photo size, 70% quality usually gets under the limit while keeping the face sharp.</p></div><div class="seo-faq-item"><h3>Can I use my phone photo directly?</h3><p>You need to crop it first. Camera photos are 4:3 or 16:9 while a passport photo is 3:4. Crop with the face centred, then resize.</p></div><div class="seo-faq-item"><h3>Can I enlarge a small photo?</h3><p>You can, but the result will be blurry, because lost detail does not return. Start from the highest-resolution original you have.</p></div><div class="seo-faq-item"><h3>Does this tool make a photo biometric?</h3><p>No. It only sets the size. A white background, the position of the face and a neutral expression depend on the photo itself and must be handled separately.</p></div></section><nav aria-label="Site sections" class="seo-sitenav"><h2>Site Map</h2><ul><li><a href="/en">Home — All PDF Tools</a></li><li><a href="/en/blog">Blog — PDF Guides</a></li><li><a href="/en/pricing">Pricing and Plans</a></li><li><a href="/en/pdf-api">PDF &amp; AI API</a></li><li><a href="/en/pdf-api/docs">API Documentation</a></li><li><a href="/en/about">About</a></li><li><a href="/en/terms">Terms of Service</a></li><li><a href="/en/privacy">Privacy Policy</a></li><li><a href="/en/kvkk">KVKK Notice</a></li></ul></nav></main></div>
+    <div id="root"><main class="seo-prerender"><h1>Exam Photo Rejected? Fix Pixel Size and File Size</h1><p class="seo-intro">Application systems rarely tell you why a photo failed. It is nearly always the pixel dimensions, the file size, or both, and they are fixed separately.</p><figure class="seo-cover"><img src="/en/covers/exam-application-photo-size.png" width="1200" height="630" loading="lazy" decoding="async" alt="Exam Photo Rejected? Fix Pixel Size and File Size" /></figure><article class="seo-article"><p class="seo-lead">It is the last day of applications, the form is filled in and you have reached the photo. The system will not accept it, and the error is rarely informative. In almost every case the pixel dimensions or the file size do not match what was asked for.</p><h2>A typical requirement</h2><p>The official exam guide does not publish pixel or KB values; the application screen is what counts. These are commonly seen conditions, so treat them as an example and compare them with your own screen:</p><ul><li>Pixel dimensions: 300 x 400 (width by height).</li><li>File size: 60 KB at most.</li><li>Format: JPG (JPEG).</li><li>Content: taken within the last six months, white background, face clearly visible.</li></ul><p>These requirements differ between institutions and change from year to year. The note on the application screen always governs, and the method below works whatever size is asked for.</p><h2>Pixels and kilobytes are different things</h2><p>This distinction is the real source of the confusion. Pixel dimensions are the photo&#39;s width and height, such as 300 x 400. File size is how much room it takes on disk, such as 60 KB.</p><p>A photo can be exactly 300 x 400 pixels and still weigh 400 KB, and the reverse is possible too. Satisfy the two conditions separately: set the dimensions first, then compress if the size is still high.</p><h2>Four steps</h2><ol><li><strong>Set the right dimensions:</strong> In the resize tool, pick the exam application entry from the ready-made sizes, which gives 300 x 400. You can also type the numbers in.</li><li><strong>Check the file size:</strong> Look at the size of the downloaded file. Under 60 KB and you are done.</li><li><strong>Compress if needed:</strong> If it is still large, put it through the image compressor and lower the quality gradually. At passport-photo dimensions, 70% quality usually drops under 60 KB while keeping the face sharp.</li><li><strong>Check by eye:</strong> Open the photo at full size and make sure the face is sharp. Over-compression distorts facial features and the photo may be rejected.</li></ol><p><a href="/en/tools/resize-image"><strong>Resize Image</strong> — Bring a photo to the pixel dimensions exam and official applications require, with ready-made sizes and on your device.</a></p><p>Crop before you resize. First crop to a 3:4 ratio with the face centred, then set 300 x 400. Do it the other way round and the face gets squashed out of proportion.</p><h2>Common mistakes</h2><ul><li>Uploading an ordinary phone photo without cropping. Camera photos are 4:3 or 16:9, while a passport photo is 3:4, so crop to that ratio first.</li><li>Using a screenshot. Screenshots come out as PNG and are usually both the wrong size and heavier than needed.</li><li>Enlarging a small photo. Taking a 150 x 200 image up to 300 x 400 gives a blurry result, because lost detail does not come back.</li><li>Assuming the background is white. If the wall is light grey or cream, the system or a reviewer may reject it.</li></ul><h2>Other official photo sizes</h2><p>The same method applies to every official photo size. In Turkey, ID card, passport and driving licence applications commonly use 50 x 60 mm, while Schengen and many other visa applications ask for 35 x 45 mm. Sizes given in millimetres convert to pixels at 300 DPI.</p><p>Worth repeating: a tool that brings a photo to the right size does not make it biometrically compliant. Background, the position of the face and the expression all depend on how the photo was taken.</p></article><nav aria-label="Related PDF tools" class="seo-related-tools"><h2>PDF Tools for This Task</h2><ul><li><a href="/en/tools/resize-image">Resize Image</a></li><li><a href="/en/tools/compress-image">Reduce Image Size in KB</a></li></ul></nav><nav aria-label="Related guides" class="seo-related-guides"><h2>Related Guides</h2><ul><li><a href="/en/blog/resize-images-for-social-media">Social Media Image Sizes for 2026, Hit Them Exactly</a></li><li><a href="/en/blog/biometric-photo-sizes-and-rules">Biometric Photo Sizes in mm: 50×60, 35×45, 2×2 in (2026)</a></li><li><a href="/en/blog/prepare-visa-application-documents">Visa Application Documents: A File an Officer Can Read</a></li></ul></nav><section aria-label="Frequently asked questions" class="seo-faq"><h2>Frequently Asked Questions</h2><div class="seo-faq-item"><h3>What pixel size should an exam application photo be?</h3><p>Commonly 300 x 400 pixels, at most 60 KB, in JPG format, but this is an example, not an official figure. Requirements change, so rely on the note shown on the application screen.</p></div><div class="seo-faq-item"><h3>My photo is the right size but the file is too big. What now?</h3><p>Pixel dimensions and file size are different things. Keep the dimensions and compress the photo separately; at passport-photo size, 70% quality usually gets under the limit while keeping the face sharp.</p></div><div class="seo-faq-item"><h3>Can I use my phone photo directly?</h3><p>You need to crop it first. Camera photos are 4:3 or 16:9 while a passport photo is 3:4. Crop with the face centred, then resize.</p></div><div class="seo-faq-item"><h3>Can I enlarge a small photo?</h3><p>You can, but the result will be blurry, because lost detail does not return. Start from the highest-resolution original you have.</p></div><div class="seo-faq-item"><h3>Does this tool make a photo biometric?</h3><p>No. It only sets the size. A white background, the position of the face and a neutral expression depend on the photo itself and must be handled separately.</p></div></section><nav aria-label="Site sections" class="seo-sitenav"><h2>Site Map</h2><ul><li><a href="/en">Home — All PDF Tools</a></li><li><a href="/en/blog">Blog — PDF Guides</a></li><li><a href="/en/pricing">Pricing and Plans</a></li><li><a href="/en/pdf-api">PDF &amp; AI API</a></li><li><a href="/en/pdf-api/docs">API Documentation</a></li><li><a href="/en/about">About</a></li><li><a href="/en/terms">Terms of Service</a></li><li><a href="/en/privacy">Privacy Policy</a></li><li><a href="/en/kvkk">KVKK Notice</a></li></ul></nav></main></div>
     <script type="module" src="/src/main.tsx"></script>
   </body>
 </html>
